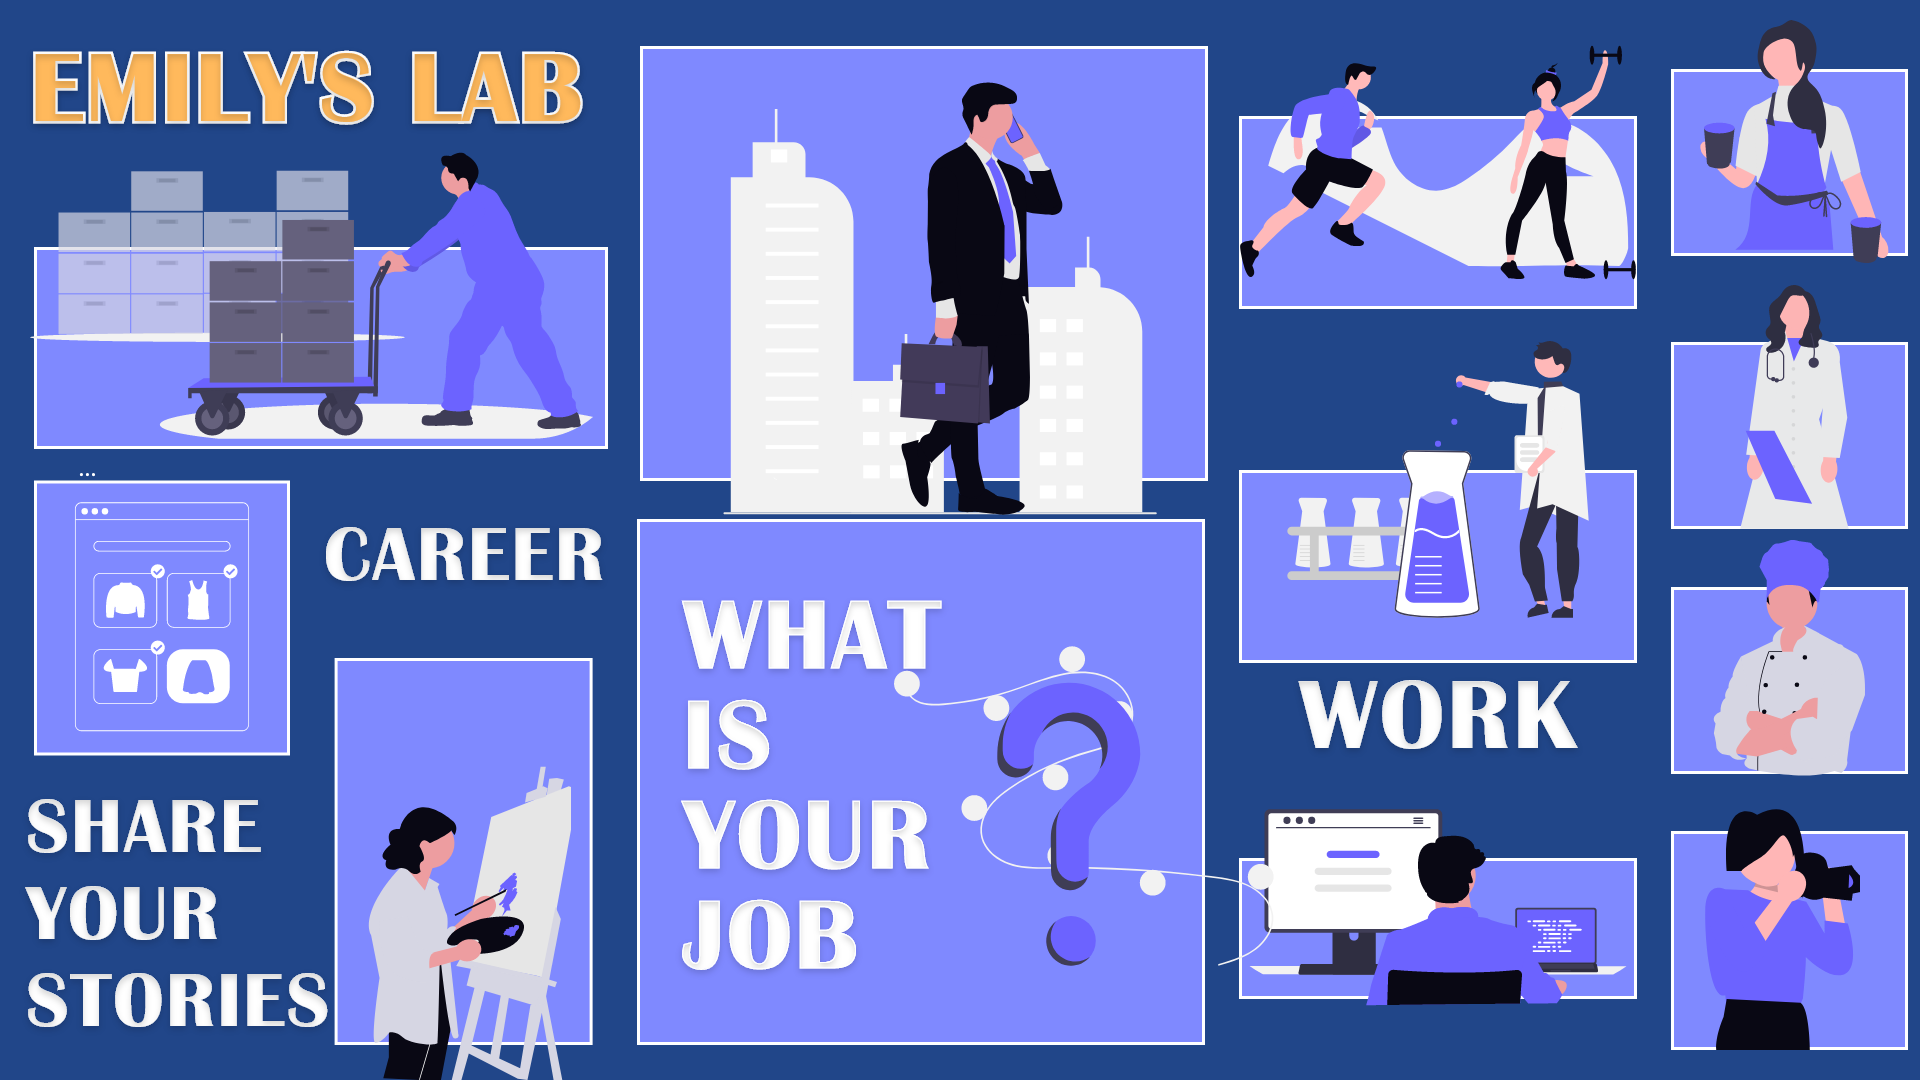
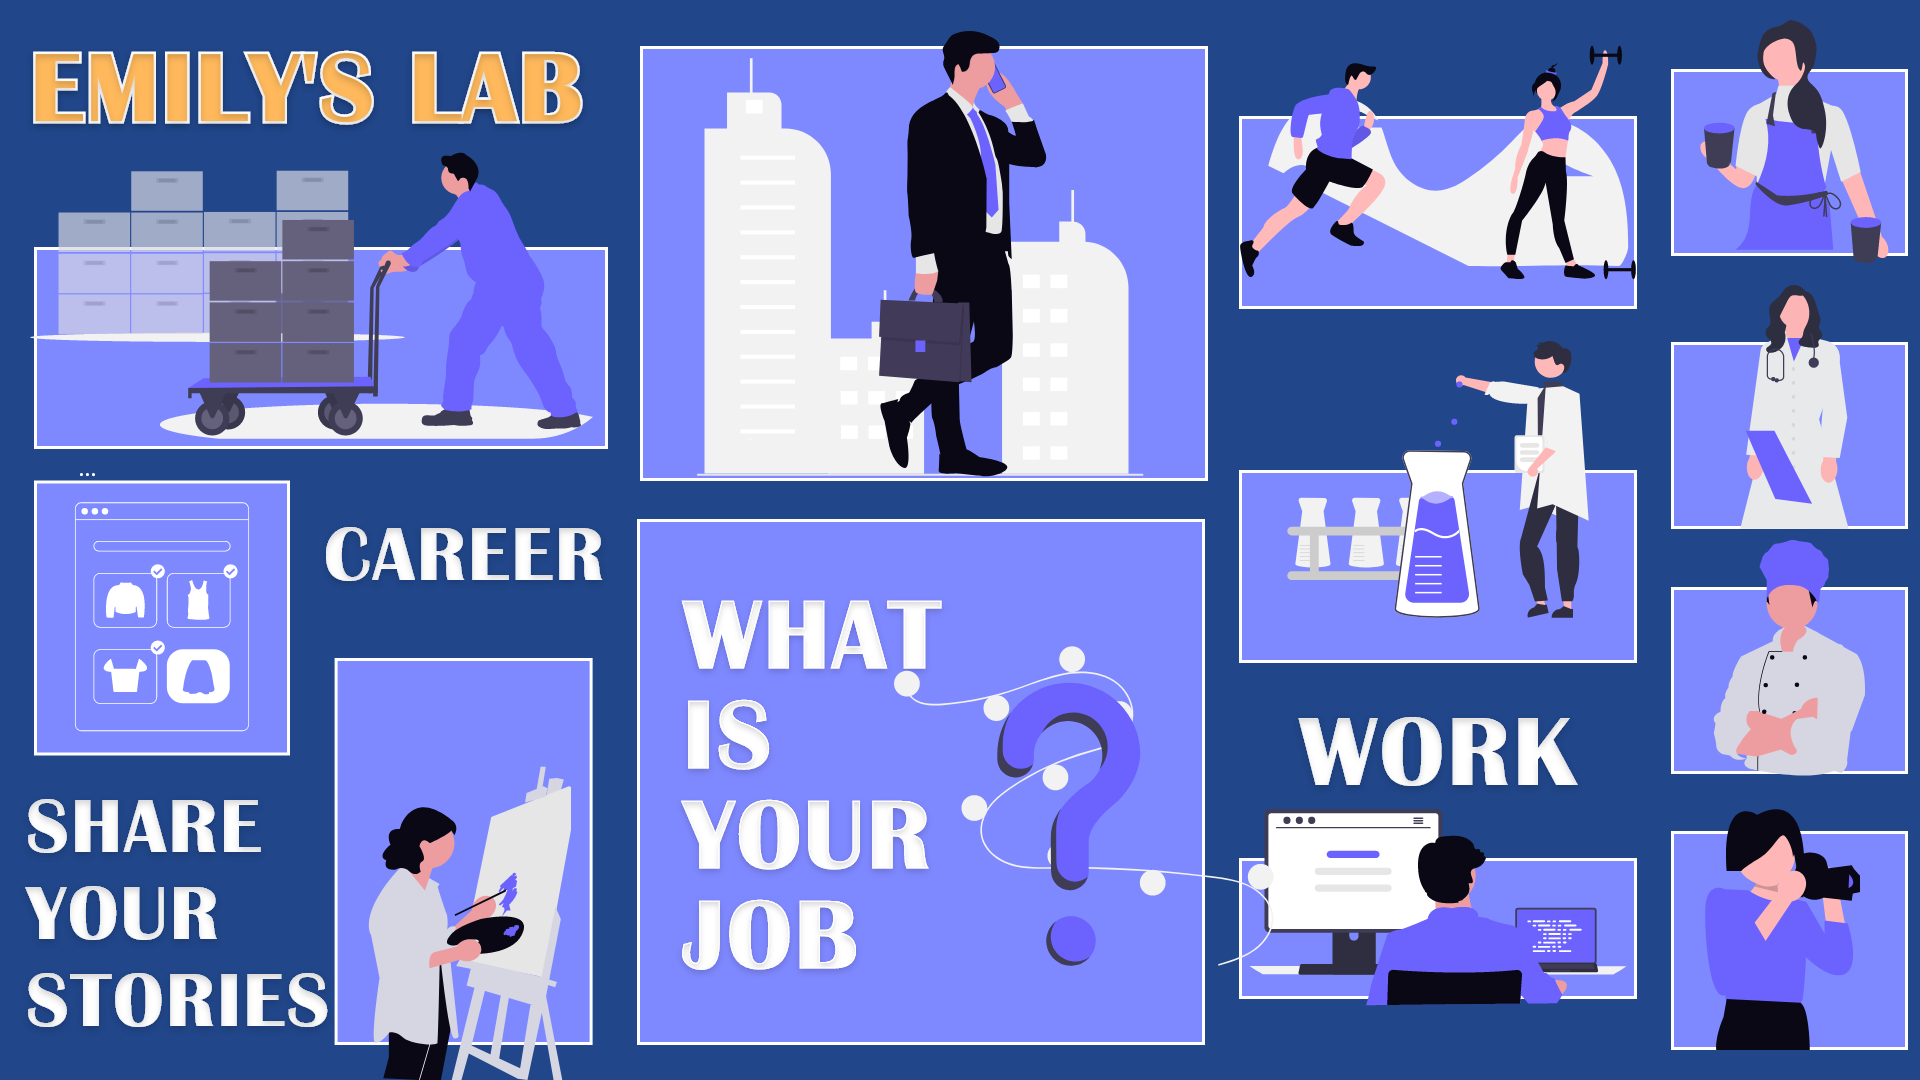
deploy: c13adda9ee73f22c2e6fe30bfc79dce2a438fb3f

Changed region(s): [[0.3438, 0.0306, 0.5938, 0.4889], [0.6562, 0.6111, 0.8438, 0.7333]]

diff --git a/blog/what-is-your-job/index.html b/blog/what-is-your-job/index.html
@@ -202,7 +202,8 @@
 <strong>💡物流管理 Logistics Management</strong></p><p>
 <p>更多職業請靜待分曉，百工百業持續招募中，個人非常期待這個計畫的問世！</p><p></p>
 <p>希望大家可以多多支持，如果身邊有朋友很樂於分享自己的職業，歡迎按右上角聯繫交流！</p><p></p>
-<img src="https://emily50431.github.io/-emily-lu-website-g/assets/images/what-is-your-job/img-1.png" alt="image.png" style="max-width:100%;border-radius:8px;margin:1rem 0;"></p><p><div class="hl-block">⚠ 本人隨時保留調整權利，尊重受訪者意願，同時也不會提供任何受訪者個人資訊</div>
+<img src="https://emily50431.github.io/-emily-lu-website-g/assets/images/what-is-your-job/img-1.png" alt="image.png" style="max-width:100%;border-radius:8px;margin:1rem 0;"></p><p>
+<strong>design credit to Katerina Limpitsouni</strong></p><p><div class="hl-block">⚠ 本人隨時保留調整權利，尊重受訪者意願，同時也不會提供任何受訪者個人資訊</div>
 </div>
 
     <!-- 文章結尾：按讚 + 分享 -->
